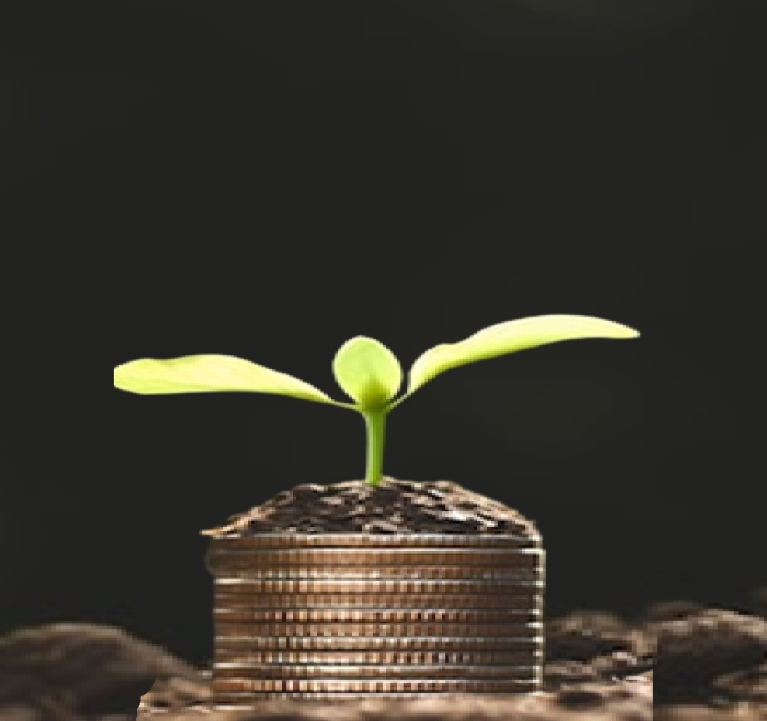
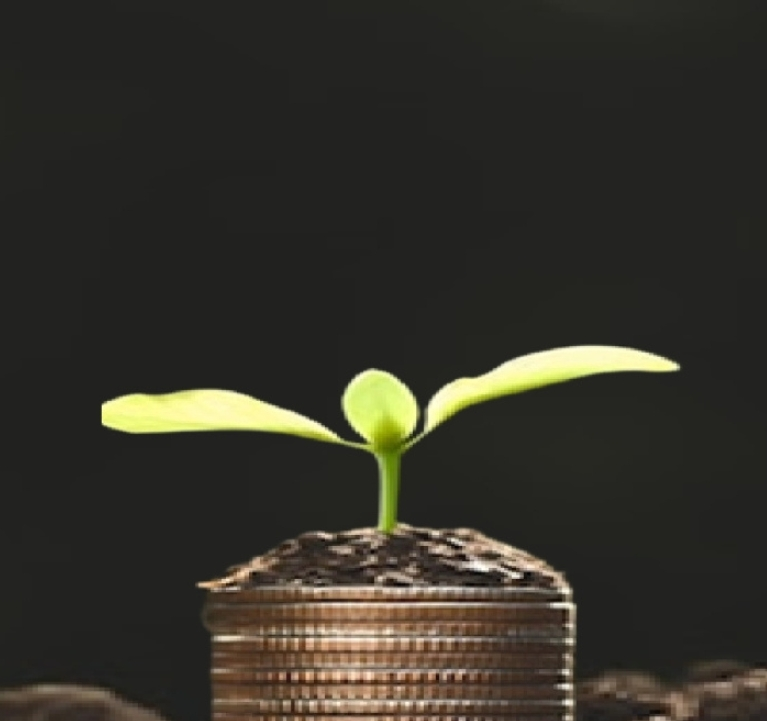
pictures

Changed region(s): [[0.0, 0.4272, 1.0, 1.0]]

diff --git a/about.html b/about.html
@@ -220,12 +220,45 @@
                 background-size: contain;
             }
             .inner-banner .inner-text-title {
-                margin-top: 205px;
+                margin-top: 65px;
             }
 
             /* Hide the laptop element on mobile devices */
             #laptop {
                 display: none;
+            }
+        }
+
+        @media (max-width: 2648px) {
+            .inner-banner {
+                background-image: url('assets/images/inner-bannerphone2648.jpg');
+                background-size: contain;
+                background-position: center;
+                height: 280px;
+            }
+        }
+        
+        @media (max-width: 2560px) {
+            .inner-banner {
+                background-image: url('assets/images/inner-bannerphone2560.jpg');
+            }
+        }
+        
+        @media (max-width: 759px) {
+            .inner-banner {
+                background-image: url('assets/images/inner-bannerphone759.jpg');
+            }
+        }
+
+        @media (max-width: 425px) {
+            .inner-banner {
+                background-image: url('assets/images/inner-bannerphone425.jpg');
+            }
+        }
+
+        @media (max-width: 375px) {
+            .inner-banner {
+                background-image: url('assets/images/inner-bannerphone375.jpg');
             }
         }
 
@@ -241,7 +274,7 @@
             <h4 style="color: #ffffff;margin-left: 100px; margin-top: 40px;" class="inner-text-title font-weight-bold mb-sm-2" id="laptop">
                 <span style="margin-left: 45px;">Transformative</span> <br> Economic Development
             </h4>
-            <h4 style="color: #ffffff;margin-left: 100px; margin-top: 40px;" class="inner-text-title font-weight-bold mb-sm-2" id="phone">
+            <h4 style="color: #ffffff;margin-left: 10px; text-align: center; " class="inner-text-title font-weight-bold mb-sm-2" id="phone">
                 Transformative Economic Development
             </h4>
         </div>
